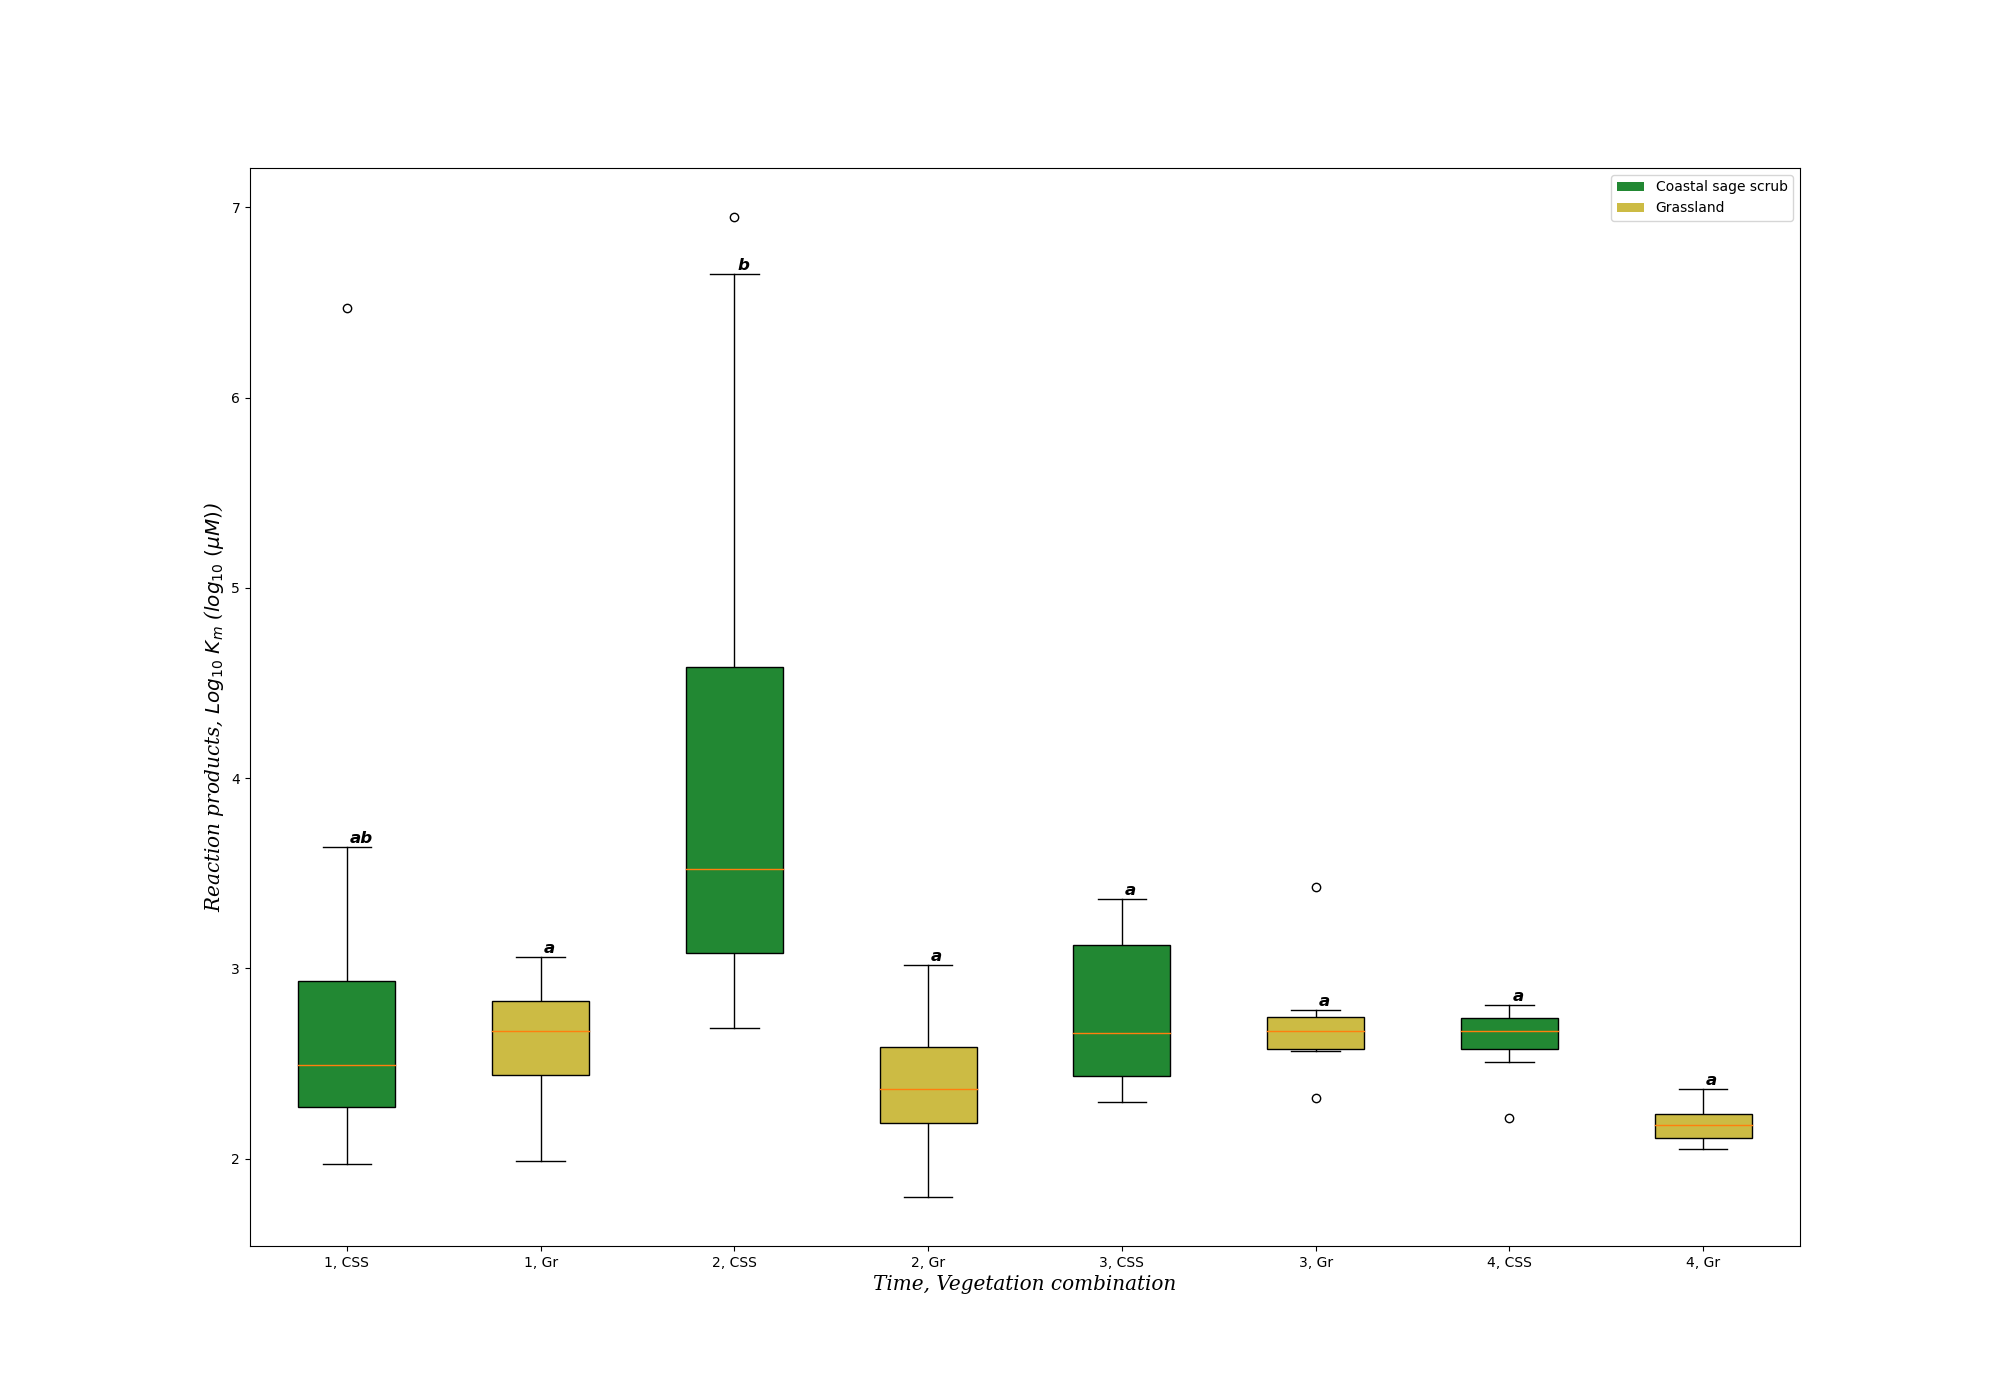
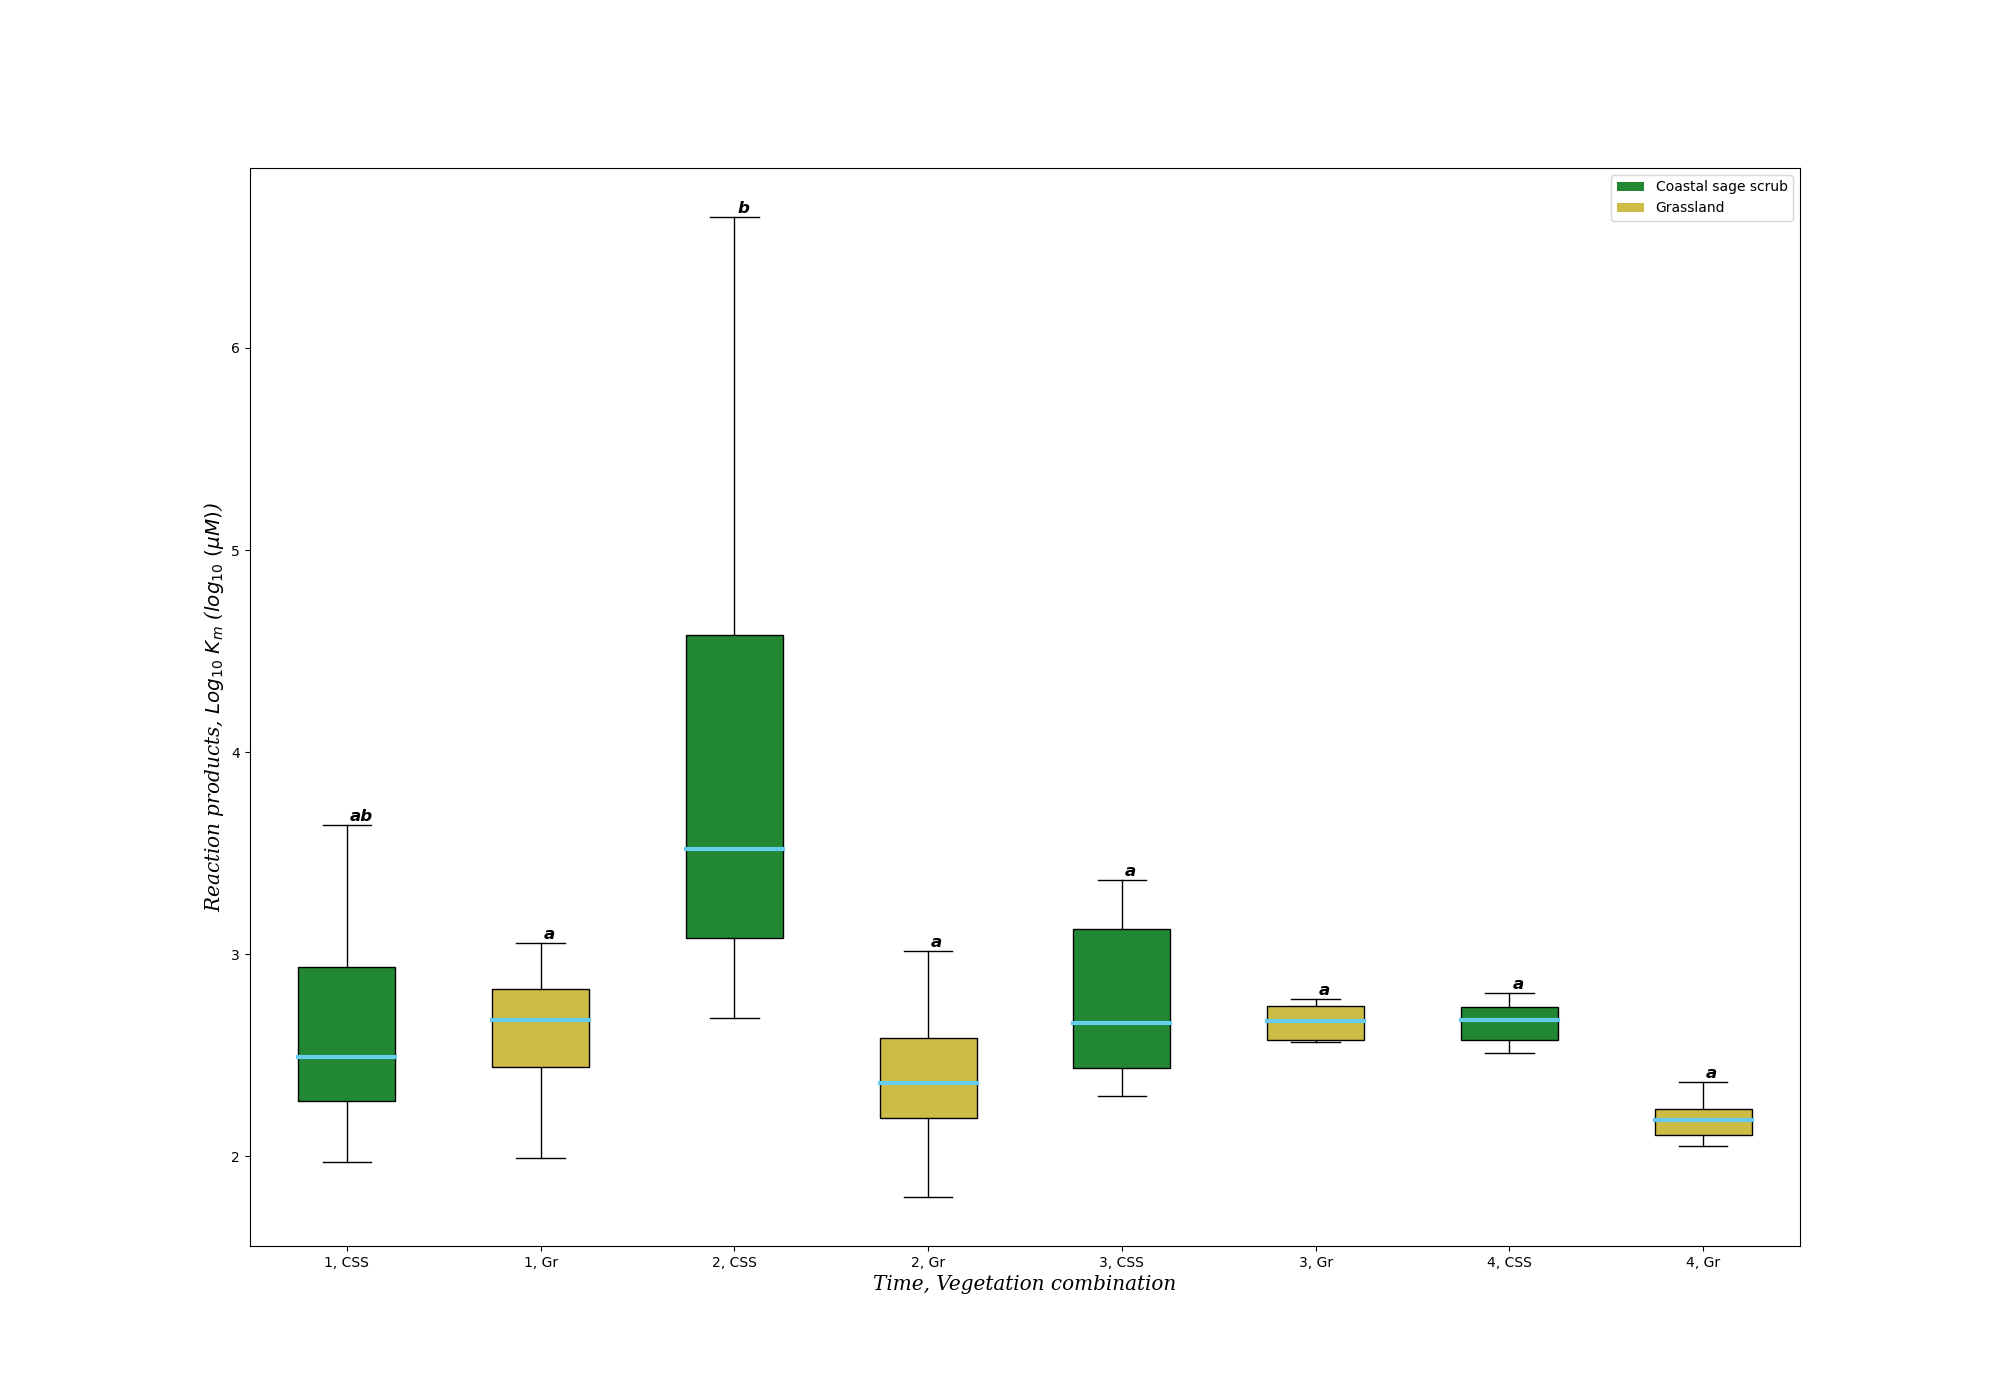
Made most of boxplots, part 1
Yeah so, I made most of the boxplots, yay. I also just realized that since some of the interactions or main effects that are significant by ANOVA but insignificant by Tukey, that frees up me to test certain main effects that I couldn't test before due to these main effects being part of one of those aforementioned interactions that are significant by ANOVA but insignificant by Tukey. So I will review my Tukey posthoc and ANOVA results again to see which of these main effects can I also test for.

For the boxplots that I made so far, I made some more modifications to them. I removed the outliers that are outside of the horizontal caps and vertical whiskers to compress the y-axis a bit. I also made the median lines thick and cyan so that they are more visible.

I'm gonna push these figures up a few at a time.

diff --git a/boxplots.py b/boxplots.py
@@ -42,32 +42,32 @@ renameTreatments = {"0": "1", "3": "2", "5": "3", "6": "4",  # timepoints only
                     "0 x CSS": "1, CSS", "3 x CSS": "2, CSS",
                     "5 x CSS": "3, CSS", "6 x CSS": "4, CSS",
                     # timePoint x Vegetation
-                    "0 x Reduced": "1, R", "3 x Reduced": "2, R",
-                    "5 x Reduced": "3, R", "6 x Reduced": "4, R",
+                    "0 x Reduced": "1, D", "3 x Reduced": "2, D",
+                    "5 x Reduced": "3, D", "6 x Reduced": "4, D",
                     "0 x Ambient": "1, A", "3 x Ambient": "2, A",
                     "5 x Ambient": "3, A", "6 x Ambient": "4, A",
                     # timePoint x Precipitation
-                    "0 x Reduced x Grassland": "1, V(Gr), P(R)",
-                    "3 x Reduced x Grassland": "2, V(Gr), P(R)",
-                    "5 x Reduced x Grassland": "3, V(Gr), P(R)",
-                    "6 x Reduced x Grassland": "4, V(Gr), P(R)",
-                    "0 x Ambient x Grassland": "1, V(Gr), P(A)",
-                    "3 x Ambient x Grassland": "2, V(Gr), P(A)",
-                    "5 x Ambient x Grassland": "3, V(Gr), P(A)",
-                    "6 x Ambient x Grassland": "4, V(Gr), P(A)",
-                    "0 x Reduced x CSS": "1, V(CSS), P(R)",
-                    "3 x Reduced x CSS": "2, V(CSS), P(R)",
-                    "5 x Reduced x CSS": "3, V(CSS), P(R)",
-                    "6 x Reduced x CSS": "4, V(CSS), P(R)",
-                    "0 x Ambient x CSS": "1, V(CSS), P(A)",
-                    "3 x Ambient x CSS": "2, V(CSS), P(A)",
-                    "5 x Ambient x CSS": "3, V(CSS), P(A)",
-                    "6 x Ambient x CSS": "4, V(CSS), P(A)",
+                    "0 x Reduced x Grassland": "1, Gr, D",
+                    "3 x Reduced x Grassland": "2, Gr, D",
+                    "5 x Reduced x Grassland": "3, Gr, D",
+                    "6 x Reduced x Grassland": "4, Gr, D",
+                    "0 x Ambient x Grassland": "1, Gr, A",
+                    "3 x Ambient x Grassland": "2, Gr, A",
+                    "5 x Ambient x Grassland": "3, Gr, A",
+                    "6 x Ambient x Grassland": "4, Gr, A",
+                    "0 x Reduced x CSS": "1, CSS, D",
+                    "3 x Reduced x CSS": "2, CSS, D",
+                    "5 x Reduced x CSS": "3, CSS, D",
+                    "6 x Reduced x CSS": "4, CSS, D",
+                    "0 x Ambient x CSS": "1, CSS, A",
+                    "3 x Ambient x CSS": "2, CSS, A",
+                    "5 x Ambient x CSS": "3, CSS, A",
+                    "6 x Ambient x CSS": "4, CSS, A",
                     # three-way (PPO Vmax)
-                    "CSS x Reduced": "V(CSS), P(R)",
-                    "CSS x Ambient": "V(CSS), P(A)",
-                    "Grassland x Reduced": "V(Gr), P(R)",
-                    "Grassland x Ambient": "V(Gr), P(A)"}
+                    "CSS x Reduced": "CSS, D",
+                    "CSS x Ambient": "CSS, A",
+                    "Grassland x Reduced": "Gr, D",
+                    "Grassland x Ambient": "Gr, A"}
 # Vegetation x Precipitation
 oldTreatments = renameTreatments.keys()
 # This dict records the old time points & treatment combinations as the keys
@@ -139,7 +139,8 @@ for group in TukeyGroups:
     dataColumn = AP_Km[group].dropna()
     dataToPlot.append(dataColumn)
 py.figure("AP, Km, timePoint x Vegetation", (20, 14))
-bp = py.boxplot(dataToPlot, patch_artist=True, labels=TukeyGroups)
+bp = py.boxplot(dataToPlot, patch_artist=True, labels=TukeyGroups,
+                showfliers=False)
 y = r"Reaction products, $Log_{10}$ $K_m$ ($log_{10}$ $(\mu M)$)"
 py.ylabel(y, fontfamily="serif", fontsize="x-large", fontstyle="oblique")
 py.xlabel("Time, Vegetation combination", fontfamily="serif",
@@ -156,10 +157,11 @@ for i in range(numOfTukeyGroups):
     py.annotate(TukeyLabels[i], (xMiddle, yVal), (3, 4), "data",
                 "offset pixels",
                 fontsize="large", fontstyle="italic", fontweight="bold")
-# Filling boxes in the boxplot
+# Filling boxes in the boxplot & thickening the median line of each box
 CSScolor = (34/255, 136/255, 51/255)  # green
 grassColor = (204/255, 187/255, 68/255)  # yellow
 white = (1, 1, 1)
+medianColor = (102/255, 204/255, 238/255)  # cyan
 ambientHatch = "*"
 reducedHatch = "//"
 for i in range(numOfTukeyGroups):
@@ -181,6 +183,9 @@ for i in range(numOfTukeyGroups):
     else:
         hatchType = None
     patch.set(facecolor=faceColor, hatch=hatchType)
+    median = bp["medians"][i]
+    median.set_linewidth(3)
+    median.set_color(medianColor)
 # Making a legend
 CSSpatch = Patch(facecolor=CSScolor)
 grassPatch = Patch(facecolor=grassColor)
@@ -194,7 +199,7 @@ else:
     vegLabels = []
 if "Precipitation" in mainEorInteraction:
     pptPatches = [ambientLegend, reducedLegend]
-    pptLabels = ["Ambient", "Reduced"]
+    pptLabels = ["Ambient", "Drought"]
 else:
     pptPatches = []
     pptLabels = []
@@ -226,7 +231,7 @@ def annotationFiles(enzyme):
     ezTukeyContents = os.listdir(ezTukeyFolder)
     annotatedFiles = []
     for file in ezTukeyContents:
-        if "annotated" in file:
+        if "annotated" in file and "worked out" not in file:
             annotatedFiles.append(file)
     return annotatedFiles
 
@@ -298,10 +303,10 @@ def TukeyGroupCols(enzyme, fileName):
     condi = (parameters.Parameter == parameter) & (parameters.Enzyme == enzyme)
     paramsOI = parameters[condi]
     paramOIogCols = paramsOI.columns.tolist()
-    for index, row in paramsOI.iterrows():
-        oldGroup = row["timePoint"]
-        if oldGroup in oldTreatments:
-            paramsOI.loc[index, "timePoint"] = renameTreatments[oldGroup]
+    # for index, row in paramsOI.iterrows():
+    #     oldGroup = row["timePoint"]
+    #     if oldGroup in oldTreatments:
+    #         paramsOI.loc[index, "timePoint"] = renameTreatments[oldGroup]
     if "x" in mainEorInteraction:
         splittedFactors = mainEorInteraction.split(" x ")
         factor1 = splittedFactors[0]
@@ -361,7 +366,8 @@ def plotBoxPlot(enzyme, fileName):
     mainEorInteraction = fileNameSplit[1]
     figName = "{0}, {1}, {2}".format(enzyme, parameter, mainEorInteraction)
     py.figure(figName, (20, 14))
-    bp = py.boxplot(dataToPlot, patch_artist=True, labels=TukeyGroups)
+    bp = py.boxplot(dataToPlot, patch_artist=True, labels=TukeyGroups,
+                    showfliers=False)
     if parameter == "Km":
         y = r"Reaction products, $Log_{10}$ $K_m$ ($log_{10}$ $(\mu M)$)"
     elif parameter == "Vmax":
@@ -377,6 +383,10 @@ def plotBoxPlot(enzyme, fileName):
         xAxis = "Vegetation, Precipitation combination"
     elif mainEorInteraction == "Three-way":
         xAxis = "Three-way combination"
+    elif mainEorInteraction == "timePoint":
+        xAxis = "Time"
+    else:
+        xAxis = mainEorInteraction
     py.xlabel(xAxis, fontfamily="serif", fontsize="x-large",
               fontstyle="oblique")
 
@@ -389,7 +399,7 @@ def plotBoxPlot(enzyme, fileName):
         yCap = topCap.get_ydata()
         xMiddle = xCap[0] + ((xCap[1] - xCap[0])/2)
         yVal = yCap[0]
-        py.annotate(TukeyLabels[i], (xMiddle, yVal), (3, 4), "data",
+        py.annotate(TukeyLabels[i], (xMiddle, yVal), (5, 4), "data",
                     "offset pixels", fontsize="large", fontstyle="oblique",
                     fontweight="bold")
 
@@ -408,22 +418,26 @@ def plotBoxPlot(enzyme, fileName):
         # Setting fill type for precipitation treatment
         if "A" in group:
             hatchType = ambientHatch
-        elif "R" in group:
+        elif "D" in group:
             hatchType = reducedHatch
         else:
             hatchType = None
         patch.set(facecolor=faceColor, hatch=hatchType)
+        median = bp["medians"][i]
+        median.set_linewidth(3)
+        median.set_color(medianColor)
 
     # Making a legend
-    if "Vegetation" in mainEorInteraction:
+    all3 = "Three-way"
+    if "Vegetation" in mainEorInteraction or all3 in mainEorInteraction:
         vegPatches = [CSSpatch, grassPatch]
         vegLabels = ["Coastal sage scrub", "Grassland"]
     else:
         vegPatches = []
         vegLabels = []
-    if "Precipitation" in mainEorInteraction:
+    if "Precipitation" in mainEorInteraction or all3 in mainEorInteraction:
         pptPatches = [ambientLegend, reducedLegend]
-        pptLabels = ["Ambient", "Reduced"]
+        pptLabels = ["Ambient", "Drought"]
     else:
         pptPatches = []
         pptLabels = []
@@ -435,3 +449,43 @@ def plotBoxPlot(enzyme, fileName):
     figPath = tukeyFolder/enzyme/figName
     py.savefig(figPath)
     return
+
+
+def plotAllBoxPlots(enzyme):
+    """
+    Plot all the box plots associated with all the interactions and/or main
+    effects associated with a particular enzyme.
+
+    Parameters
+    ----------
+    enzyme : str
+        Enzyme of interest. Will be used to choose the folder that contains the
+        Tukey results for this enzyme as well as the parameter values specific
+        to this enzyme.
+
+    Returns
+    -------
+    None.
+
+    """
+    annotateFiles = annotationFiles(enzyme)
+    numOfBoxPlots = len(annotateFiles)
+    for i in range(numOfBoxPlots):
+        plotBoxPlot(enzyme, annotateFiles[i])
+    return
+
+
+# %%
+# Purpose: Making remaining boxplots for AP & for remaining enzymes
+
+# (1) Making remaining boxplots for AP
+plotBoxPlot("AP", 'Km, Vegetation x Precipitation, groups, annotated.xlsx')
+plotBoxPlot("AP", 'Vmax, timePoint, groups, annotated.xlsx')
+
+# (2) Making boxplots for all enzymes
+plotAllBoxPlots("BG")
+plotAllBoxPlots("BX")
+plotAllBoxPlots("CBH")
+plotAllBoxPlots("LAP")
+plotAllBoxPlots("NAG")
+plotAllBoxPlots("PPO")
